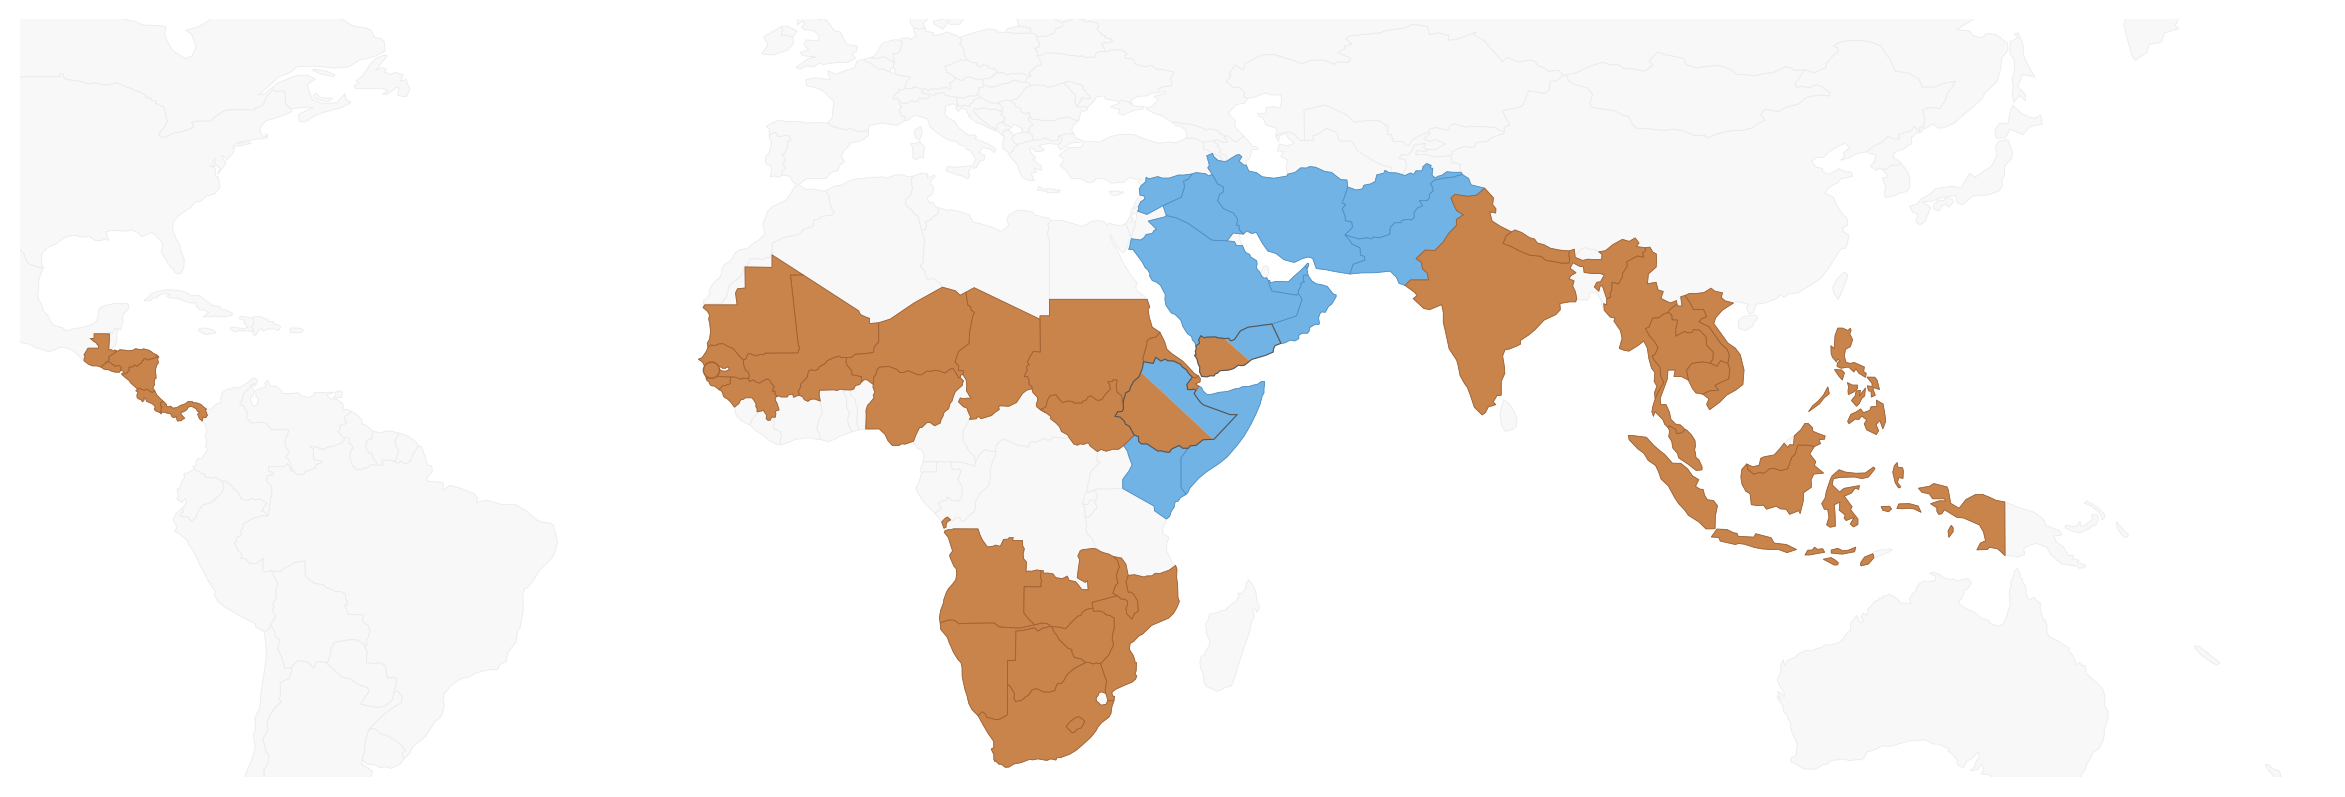
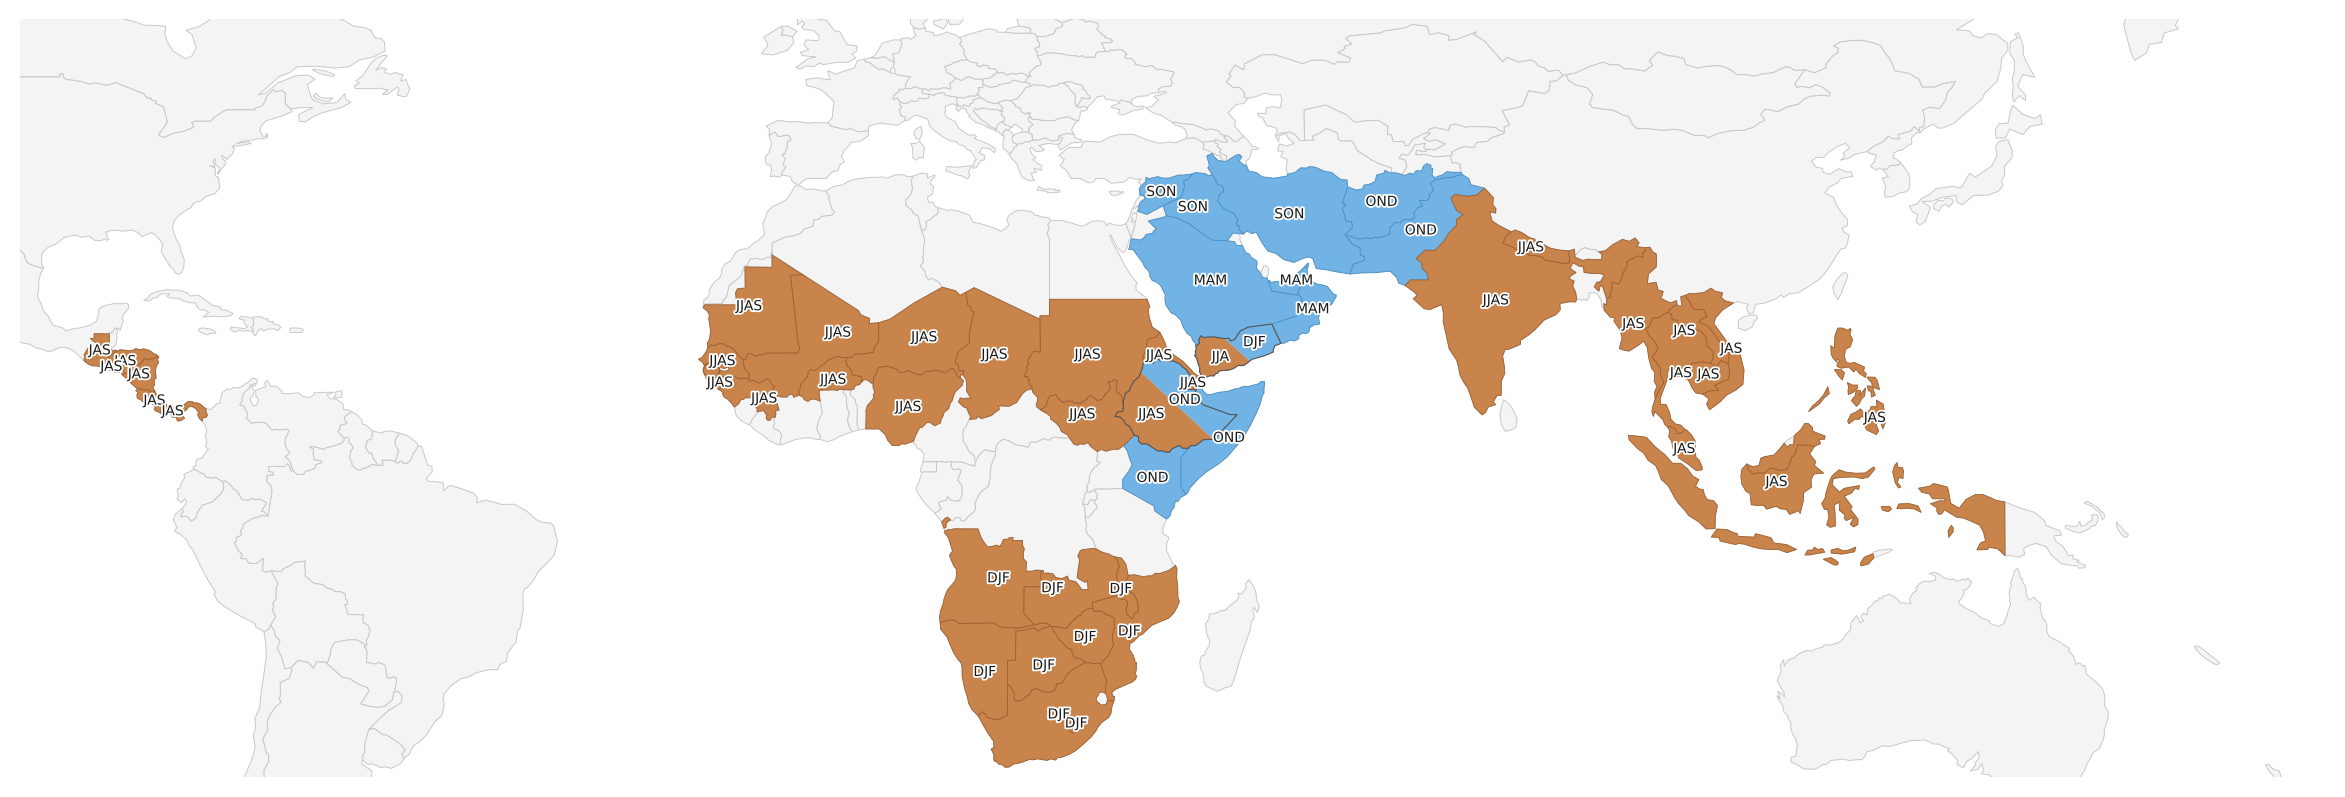
Polish El Niño literature map: faint world outlines, season labels, rename header
- Map now draws a faint outline of every country for geographic context
  (was floating documented countries only).
- Annotate each signal with its documented season (3-month code); Ethiopia &
  Yemen get a label in each diagonal half.
- Rename section header "Documented ENSO Impacts in the Literature" -> "El Niño".

diff --git a/docs/index.html b/docs/index.html
@@ -611,7 +611,7 @@
 
   <hr>
   <section>
-    <h2>Documented ENSO Impacts in the Literature</h2>
+    <h2>El Niño</h2>
     <p class="enso-note">
       The generalized NOAA and IRI impact maps above are built from a few canonical global studies and miss
       several real teleconnections — most notably summer rainfall over <strong>highland Yemen and the
@@ -623,7 +623,7 @@
       column reports what <strong>this study's own ERA5 analysis</strong> found, as an independent check.
     </p>
     <div class="map-zoom" style="max-width:980px;margin:0 auto;"><img src="maps/lit_enso_elnino.png" alt="Documented El Niño rainfall impacts across humanitarian-priority regions"></div>
-    <div style="display:flex;flex-wrap:wrap;gap:0.4rem 1.1rem;font-size:0.72rem;color:#444;margin:0.4rem 0 0.2rem;"><span><span style="display:inline-block;width:0.9em;height:0.9em;border-radius:2px;vertical-align:middle;margin-right:0.3em;background:#C8844A;border:1px solid #A06030;"></span>El&nbsp;Niño drier</span><span><span style="display:inline-block;width:0.9em;height:0.9em;border-radius:2px;vertical-align:middle;margin-right:0.3em;background:#71B3E5;border:1px solid #4A90C8;"></span>El&nbsp;Niño wetter</span><span><span style="display:inline-block;width:0.9em;height:0.9em;border-radius:2px;vertical-align:middle;margin-right:0.3em;background:linear-gradient(135deg,#71B3E5 50%,#C8844A 50%);border:1px solid #777;"></span>Opposing signals by season (e.g. Ethiopia, Yemen)</span><span><span style="display:inline-block;width:0.9em;height:0.9em;border-radius:2px;vertical-align:middle;margin-right:0.3em;background:#E8E8E8;border:1px solid #CCCCCC;"></span>Not in this catalogue</span></div>
+    <div style="display:flex;flex-wrap:wrap;gap:0.4rem 1.1rem;font-size:0.72rem;color:#444;margin:0.4rem 0 0.2rem;"><span><span style="display:inline-block;width:0.9em;height:0.9em;border-radius:2px;vertical-align:middle;margin-right:0.3em;background:#C8844A;border:1px solid #A06030;"></span>El&nbsp;Niño drier</span><span><span style="display:inline-block;width:0.9em;height:0.9em;border-radius:2px;vertical-align:middle;margin-right:0.3em;background:#71B3E5;border:1px solid #4A90C8;"></span>El&nbsp;Niño wetter</span><span><span style="display:inline-block;width:0.9em;height:0.9em;border-radius:2px;vertical-align:middle;margin-right:0.3em;background:linear-gradient(135deg,#71B3E5 50%,#C8844A 50%);border:1px solid #777;"></span>Opposing signals by season (e.g. Ethiopia, Yemen)</span><span><span style="display:inline-block;width:0.9em;height:0.9em;border-radius:2px;vertical-align:middle;margin-right:0.3em;background:#F4F4F4;border:1px solid #C8C8C8;"></span>Not in this catalogue</span></div>
     <p class="enso-note" style="margin:0.3rem auto 0.9rem;max-width:980px;font-size:0.73rem;color:#666;">
       Map shows the dominant documented <strong>El&nbsp;Niño</strong> rainfall response in each country's main
       humanitarian rainy season; La&nbsp;Niña is typically (not always) the opposite. Ethiopia and Yemen are split

diff --git a/teleconnection_survey.py b/teleconnection_survey.py
@@ -35,6 +35,7 @@ import geopandas as gpd
 from scipy import stats
 import matplotlib.pyplot as plt
 import matplotlib.patches as mpatches
+import matplotlib.patheffects as pe
 from matplotlib.colors import TwoSlopeNorm, LinearSegmentedColormap
 import ocha_stratus as stratus
 
@@ -1131,8 +1132,8 @@ def plot_index_corr_matrix(indices: pd.DataFrame, out_dir: Path, end_year: int =
 # Documented-impacts (literature) map
 # --------------------------------------------------------------------------- #
 # Dominant documented El Niño rainfall response per country in its main
-# humanitarian rainy season (see the "Documented ENSO Impacts in the Literature"
-# section of the report for the per-link sources). Curated from peer-reviewed +
+# humanitarian rainy season (see the "El Niño" literature section of the report
+# for the per-link sources). Curated from peer-reviewed +
 # operational literature, cross-checked against this study's ERA5 results.
 _LIT_WET = {"KEN", "SOM", "SAU", "OMN", "ARE", "IRQ", "IRN", "SYR", "PAK", "AFG"}
 _LIT_DRY = {
@@ -1143,17 +1144,38 @@ _LIT_DRY = {
 }
 _LIT_BI = {"ETH", "YEM"}  # diagonal split: wetter season (blue) / drier season (brown)
 
+# Documented headline season per country (3-month code). Bidirectional countries
+# carry a (wet-season, dry-season) pair, matching the diagonal split.
+_LIT_SEASON = {
+    "KEN": "OND", "SOM": "OND",
+    "DJI": "JJAS", "ERI": "JJAS", "SDN": "JJAS", "SSD": "JJAS",
+    "SEN": "JJAS", "MLI": "JJAS", "NER": "JJAS", "TCD": "JJAS", "BFA": "JJAS",
+    "NGA": "JJAS", "MRT": "JJAS", "GMB": "JJAS", "GNB": "JJAS", "GIN": "JJAS",
+    "SAU": "MAM", "OMN": "MAM", "ARE": "MAM",
+    "IRQ": "SON", "IRN": "SON", "SYR": "SON",
+    "IND": "JJAS", "NPL": "JJAS", "PAK": "OND", "AFG": "OND",
+    "GTM": "JAS", "HND": "JAS", "SLV": "JAS", "NIC": "JAS", "CRI": "JAS", "PAN": "JAS",
+    "ZWE": "DJF", "ZMB": "DJF", "MWI": "DJF", "MOZ": "DJF", "ZAF": "DJF",
+    "BWA": "DJF", "NAM": "DJF", "LSO": "DJF", "AGO": "DJF",
+    "IDN": "JAS", "PHL": "JAS", "VNM": "JAS", "THA": "JAS", "KHM": "JAS",
+    "LAO": "JAS", "MMR": "JAS", "MYS": "JAS",
+}
+_LIT_BI_SEASON = {"ETH": ("OND", "JJAS"), "YEM": ("DJF", "JJA")}  # (wet, dry)
+
 
 def plot_literature_enso_map(gdf: gpd.GeoDataFrame, out_dir: Path) -> None:
     """Choropleth of documented El Niño rainfall impacts, in the same visual
-    style as the correlation maps. Saved as maps/lit_enso_elnino.png."""
+    style as the correlation maps, annotated with each signal's season.
+    Saved as maps/lit_enso_elnino.png."""
     documented = _LIT_WET | _LIT_DRY | _LIT_BI
     is_dot = gdf.geometry.apply(_is_dot_country)
     g_poly, g_dot = gdf[~is_dot], gdf[is_dot]
 
     map_w = 15.0
     fig, ax = plt.subplots(figsize=(map_w, map_w * _MAP_DY / _MAP_DX))
-    _plot_base_layer(ax, g_poly, documented)
+
+    # Faint outline of every country for geographic context.
+    g_poly.plot(ax=ax, color="#F4F4F4", edgecolor="#C8C8C8", linewidth=0.35)
 
     wet_poly = g_poly[g_poly["iso3"].isin(_LIT_WET)]
     dry_poly = g_poly[g_poly["iso3"].isin(_LIT_DRY)]
@@ -1162,7 +1184,20 @@ def plot_literature_enso_map(gdf: gpd.GeoDataFrame, out_dir: Path) -> None:
     if len(dry_poly):
         dry_poly.plot(ax=ax, color="#C8844A", edgecolor="#A06030", linewidth=0.3)
 
-    # Bidirectional: diagonal split (upper-right = wetter/blue, lower-left = drier/brown)
+    def _label(x, y, text):
+        ax.annotate(text, (x, y), ha="center", va="center", fontsize=5.0,
+                    color="#1a1a1a", zorder=7,
+                    path_effects=[pe.withStroke(linewidth=1.3, foreground="white")])
+
+    # Unidirectional season labels
+    for _, row in pd.concat([wet_poly, dry_poly]).iterrows():
+        season = _LIT_SEASON.get(row["iso3"])
+        if not season:
+            continue
+        p = row.geometry.representative_point()
+        _label(p.x, p.y, season)
+
+    # Bidirectional: diagonal split + a season label in each half
     for _, row in g_poly[g_poly["iso3"].isin(_LIT_BI)].iterrows():
         geom = row.geometry
         upper, lower = _diagonal_halves(geom)
@@ -1174,6 +1209,13 @@ def plot_literature_enso_map(gdf: gpd.GeoDataFrame, out_dir: Path) -> None:
                 ax=ax, color="#C8844A", edgecolor="none")
         gpd.GeoDataFrame(geometry=[geom], crs="EPSG:4326").plot(
             ax=ax, facecolor="none", edgecolor="#555", linewidth=0.4)
+        wet_s, dry_s = _LIT_BI_SEASON.get(row["iso3"], ("", ""))
+        if not upper.is_empty and wet_s:
+            rp = upper.representative_point()
+            _label(rp.x, rp.y, wet_s)
+        if not lower.is_empty and dry_s:
+            rp = lower.representative_point()
+            _label(rp.x, rp.y, dry_s)
 
     for _, row in g_dot.iterrows():
         iso = row["iso3"]
@@ -1416,7 +1458,7 @@ def generate_html_report(cfg: dict) -> None:
 
   <hr>
   <section>
-    <h2>Documented ENSO Impacts in the Literature</h2>
+    <h2>El Niño</h2>
     <p class="enso-note">
       The generalized NOAA and IRI impact maps above are built from a few canonical global studies and miss
       several real teleconnections — most notably summer rainfall over <strong>highland Yemen and the
@@ -1428,7 +1470,7 @@ def generate_html_report(cfg: dict) -> None:
       column reports what <strong>this study's own ERA5 analysis</strong> found, as an independent check.
     </p>
     <div class="map-zoom" style="max-width:980px;margin:0 auto;"><img src="maps/lit_enso_elnino.png" alt="Documented El Niño rainfall impacts across humanitarian-priority regions"></div>
-    <div style="display:flex;flex-wrap:wrap;gap:0.4rem 1.1rem;font-size:0.72rem;color:#444;margin:0.4rem 0 0.2rem;"><span><span style="display:inline-block;width:0.9em;height:0.9em;border-radius:2px;vertical-align:middle;margin-right:0.3em;background:#C8844A;border:1px solid #A06030;"></span>El&nbsp;Niño drier</span><span><span style="display:inline-block;width:0.9em;height:0.9em;border-radius:2px;vertical-align:middle;margin-right:0.3em;background:#71B3E5;border:1px solid #4A90C8;"></span>El&nbsp;Niño wetter</span><span><span style="display:inline-block;width:0.9em;height:0.9em;border-radius:2px;vertical-align:middle;margin-right:0.3em;background:linear-gradient(135deg,#71B3E5 50%,#C8844A 50%);border:1px solid #777;"></span>Opposing signals by season (e.g. Ethiopia, Yemen)</span><span><span style="display:inline-block;width:0.9em;height:0.9em;border-radius:2px;vertical-align:middle;margin-right:0.3em;background:#E8E8E8;border:1px solid #CCCCCC;"></span>Not in this catalogue</span></div>
+    <div style="display:flex;flex-wrap:wrap;gap:0.4rem 1.1rem;font-size:0.72rem;color:#444;margin:0.4rem 0 0.2rem;"><span><span style="display:inline-block;width:0.9em;height:0.9em;border-radius:2px;vertical-align:middle;margin-right:0.3em;background:#C8844A;border:1px solid #A06030;"></span>El&nbsp;Niño drier</span><span><span style="display:inline-block;width:0.9em;height:0.9em;border-radius:2px;vertical-align:middle;margin-right:0.3em;background:#71B3E5;border:1px solid #4A90C8;"></span>El&nbsp;Niño wetter</span><span><span style="display:inline-block;width:0.9em;height:0.9em;border-radius:2px;vertical-align:middle;margin-right:0.3em;background:linear-gradient(135deg,#71B3E5 50%,#C8844A 50%);border:1px solid #777;"></span>Opposing signals by season (e.g. Ethiopia, Yemen)</span><span><span style="display:inline-block;width:0.9em;height:0.9em;border-radius:2px;vertical-align:middle;margin-right:0.3em;background:#F4F4F4;border:1px solid #C8C8C8;"></span>Not in this catalogue</span></div>
     <p class="enso-note" style="margin:0.3rem auto 0.9rem;max-width:980px;font-size:0.73rem;color:#666;">
       Map shows the dominant documented <strong>El&nbsp;Niño</strong> rainfall response in each country's main
       humanitarian rainy season; La&nbsp;Niña is typically (not always) the opposite. Ethiopia and Yemen are split
